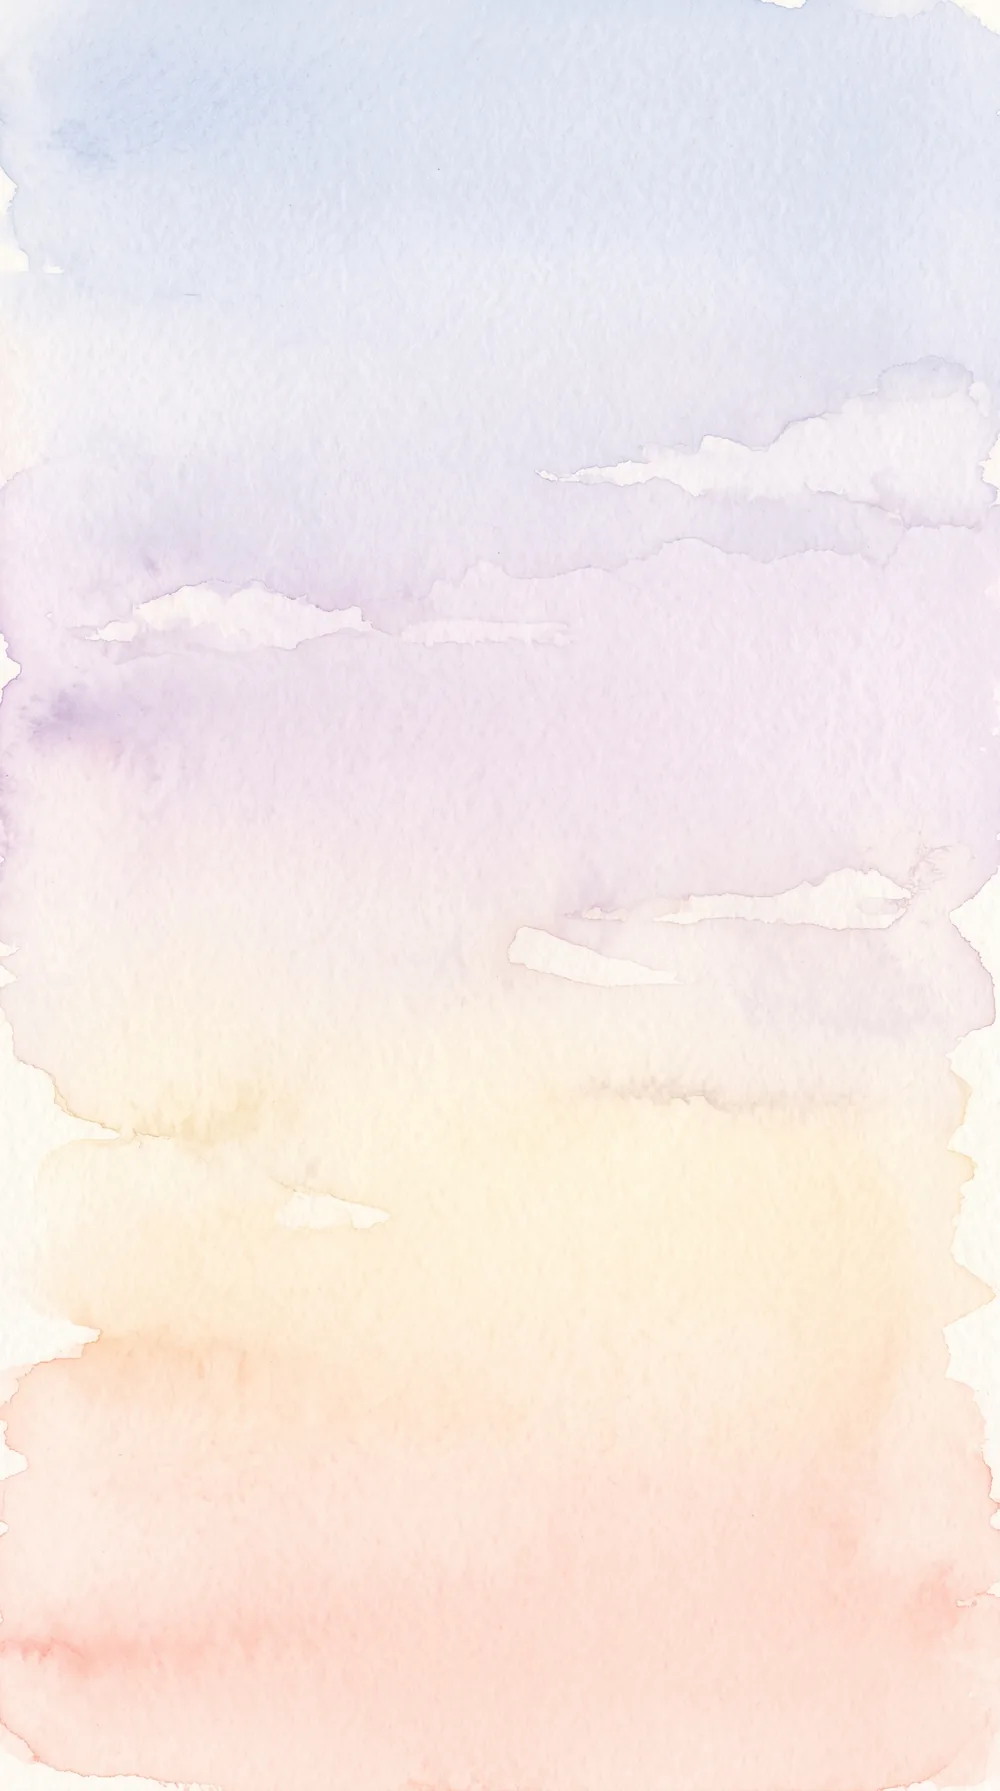
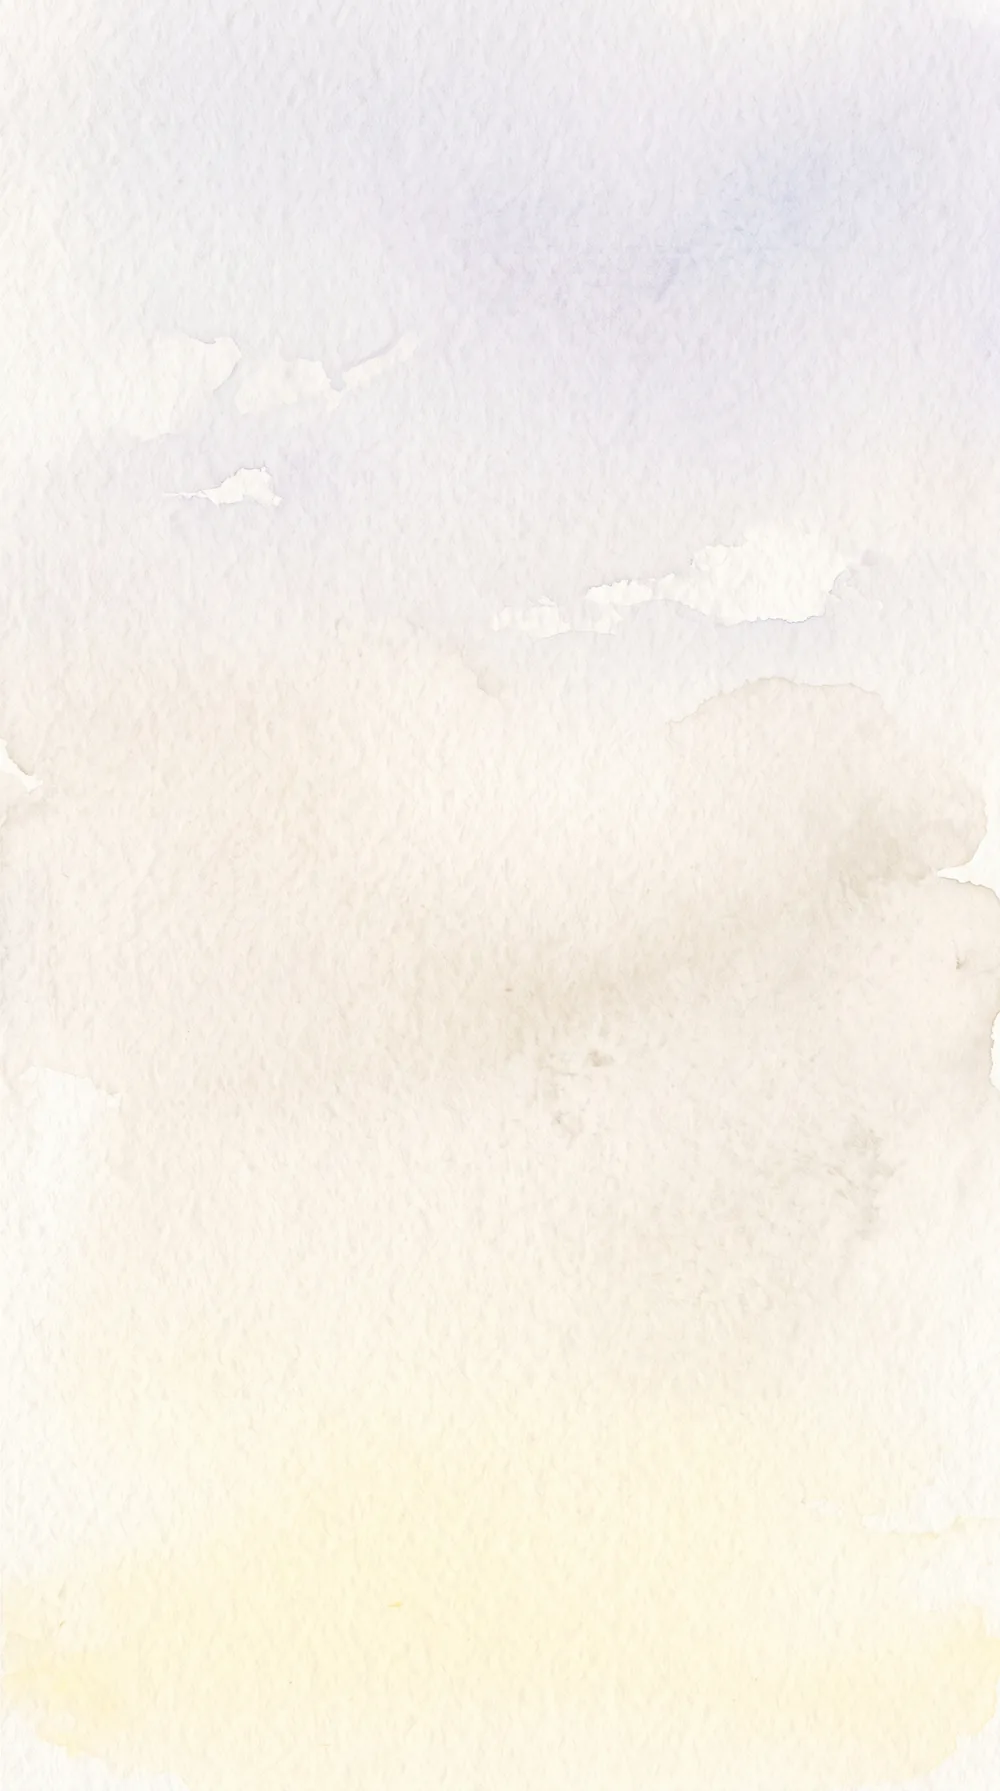
Sweet Pea: neutral linen palette with pastel yellow, lavender and blue touches

diff --git a/app/i/[slug]/_designs/WeddingSweetPea.tsx b/app/i/[slug]/_designs/WeddingSweetPea.tsx
@@ -547,24 +547,24 @@ export default function WeddingSweetPea({ invite, embedded = false, guest = null
 
 const CSS = `
 .sp-root {
-  --lilac: #cbb8e3; --lilac-d: #9f86c2; --blue: #b9cfea; --peach: #f6cfc0; --butter: #fbefd2;
-  --sage: #b8c9a9; --cream: #fffaf2; --ink: #4a3553; --ink-soft: #7a6582;
+  --lilac: #d6cde6; --lilac-d: #9a8fb3; --blue: #c9d7e6; --peach: #efe2b8; --butter: #f3e6b5;
+  --sage: #b9bfa6; --cream: #fbf8f2; --ink: #3f3a36; --ink-soft: #857c73; --line: rgba(120,108,96,.35);
   --title: 'Gilda Display', 'Times New Roman', serif; --body: 'Jost', 'Helvetica Neue', sans-serif;
-  --std-paper: #fffaf2; --std-ink: #4a3553; --std-accent: #efe6f6;
+  --std-paper: #fbf8f2; --std-ink: #3f3a36; --std-accent: #efeadf;
   --std-script: 'Gilda Display', serif; --std-sans: 'Jost', sans-serif;
   --p: 0;
   position: relative; min-height: 100vh; color: var(--ink); font-family: var(--body); font-weight: 300;
   -webkit-font-smoothing: antialiased; overflow-x: clip;
 }
 .sp-root *, .sp-root *::before, .sp-root *::after { box-sizing: border-box; }
-body:has(.sp-root) { margin: 0; background: #f7e6e1; }
+body:has(.sp-root) { margin: 0; background: #f1ece3; }
 
 /* ---------- sky ---------- */
 .sp-sky { position: fixed; inset: 0; z-index: 0; pointer-events: none; overflow: hidden; }
 .sp-sky-l { position: absolute; inset: 0; }
-.sp-sky-dawn { background: url(${ART}/sky.webp) center / cover no-repeat, linear-gradient(180deg, #e6dcf3 0%, #f6e6ea 45%, #fbe2d4 100%); }
-.sp-sky-day { background: linear-gradient(180deg, #d6d3f0 0%, #ece0f2 50%, #f8e4e4 100%); opacity: calc(min(1, max(0, (var(--p) - 0.25) * 2.2)) * 0.75); }
-.sp-sky-dusk { background: linear-gradient(180deg, #b9c6e8 0%, #d2cbea 55%, #ecd6e6 100%); opacity: calc(min(1, max(0, (var(--p) - 0.62) * 2.6)) * 0.85); }
+.sp-sky-dawn { background: url(${ART}/sky.webp) center / cover no-repeat, linear-gradient(180deg, #ebe8ee 0%, #f4f0e8 50%, #f3ead6 100%); }
+.sp-sky-day { background: linear-gradient(180deg, #e6e4ee 0%, #efebe4 50%, #f2ead8 100%); opacity: calc(min(1, max(0, (var(--p) - 0.25) * 2.2)) * 0.75); }
+.sp-sky-dusk { background: linear-gradient(180deg, #d4dce8 0%, #e0dde8 55%, #ece6dc 100%); opacity: calc(min(1, max(0, (var(--p) - 0.62) * 2.6)) * 0.85); }
 .sp-sky-clouds { position: absolute; inset: -20% 0; will-change: transform; }
 .sp-sky-clouds.far { transform: translate3d(0, calc(var(--sy, 0) * -0.04px), 0); }
 .sp-sky-clouds.near { transform: translate3d(0, calc(var(--sy, 0) * -0.12px), 0); }
@@ -591,10 +591,10 @@ body:has(.sp-root) { margin: 0; background: #f7e6e1; }
 .sp-hero-spray { position: absolute; top: 3svh; left: 50%; width: min(118vw, 600px); aspect-ratio: 16/9; translate: -50% 0; background: center / contain no-repeat; pointer-events: none; }
 .sp-names { font: 400 clamp(58px, 18vw, 86px)/.98 var(--title); margin: 4px 0 18px; display: flex; flex-direction: column; align-items: center; }
 .sp-hero-line { font: 300 15px/1.5 var(--body); letter-spacing: .06em; margin: 0 0 22px; color: var(--ink-soft); }
-.sp-hero-date { font: 400 17px/1 var(--body); letter-spacing: .38em; margin: 0; padding: 14px 0 14px .38em; border-top: 1px solid rgba(74,53,83,.25); border-bottom: 1px solid rgba(74,53,83,.25); }
+.sp-hero-date { font: 400 17px/1 var(--body); letter-spacing: .38em; margin: 0; padding: 14px 0 14px .38em; border-top: 1px solid var(--line); border-bottom: 1px solid var(--line); }
 .sp-welcome { margin-top: 30px; }
 .sp-welcome-dear { font: 400 22px/1.3 var(--title); margin: 0 0 4px; }
-.sp-scroll-hint { position: absolute; bottom: 28px; left: 50%; translate: -50% 0; width: 1px; height: 46px; background: rgba(74,53,83,.18); overflow: hidden; }
+.sp-scroll-hint { position: absolute; bottom: 28px; left: 50%; translate: -50% 0; width: 1px; height: 46px; background: rgba(63,58,54,.18); overflow: hidden; }
 .sp-scroll-hint span { position: absolute; left: 0; top: -40%; width: 1px; height: 40%; background: var(--ink); animation: sp-hint 2.2s ease-in-out infinite; }
 @keyframes sp-hint { to { top: 100%; } }
 .is-open .sp-hero > * { animation: sp-hero-in 1.2s cubic-bezier(.2,.7,.2,1) both; }
@@ -606,8 +606,8 @@ body:has(.sp-root) { margin: 0; background: #f7e6e1; }
 .sp-sec { position: relative; padding: 46px 0; }
 .sp-panel {
   position: relative; padding: 46px 26px 40px; border-radius: 180px 180px 26px 26px;
-  background: rgba(255, 250, 242, .8); box-shadow: 0 24px 60px -30px rgba(90, 60, 120, .35);
-  outline: 1px solid rgba(159, 134, 194, .45); outline-offset: -10px;
+  background: rgba(251, 248, 242, .84); box-shadow: 0 24px 60px -30px rgba(80, 70, 60, .3);
+  outline: 1px solid var(--line); outline-offset: -10px;
 }
 .sp-vine { position: absolute; top: -26px; width: 110px; aspect-ratio: 9/16; background: center top / contain no-repeat; pointer-events: none; }
 .sp-vine-l { left: -16px; }
@@ -634,7 +634,7 @@ body:has(.sp-root) { margin: 0; background: #f7e6e1; }
 .sp-count-row { display: grid; grid-template-columns: repeat(4, 1fr); gap: 10px; margin-top: 6px; }
 .sp-count-cell { display: flex; flex-direction: column; align-items: center; gap: 10px; }
 .sp-count-num { width: 100%; aspect-ratio: 3/4; max-width: 84px; display: grid; place-items: center; border-radius: 40px 40px 12px 12px;
-  background: rgba(255,250,242,.82); outline: 1px solid rgba(159,134,194,.45); outline-offset: -6px; perspective: 300px; overflow: hidden;
+  background: rgba(251,248,242,.85); outline: 1px solid var(--line); outline-offset: -6px; perspective: 300px; overflow: hidden;
   font: 400 30px/1 var(--title); font-variant-numeric: lining-nums tabular-nums; }
 .sp-flip { display: block; animation: sp-flip .6s cubic-bezier(.2,.7,.3,1); transform-origin: 50% 0; }
 @keyframes sp-flip { from { transform: rotateX(-80deg); opacity: 0; filter: blur(2px); } }
@@ -655,16 +655,16 @@ body:has(.sp-root) { margin: 0; background: #f7e6e1; }
 .sp-rsvp-panel { padding-bottom: 46px; overflow: visible; }
 .sp-form { display: flex; flex-direction: column; align-items: center; gap: 18px; }
 .sp-choice { display: grid; grid-template-columns: 1fr 1fr; gap: 10px; width: 100%; }
-.sp-pill { font: 400 14px/1.3 var(--body); color: var(--ink); background: transparent; border: 1px solid rgba(74,53,83,.4); border-radius: 999px; padding: 15px 10px; cursor: pointer; transition: background .3s, color .3s, border-color .3s; }
-.sp-pill.on { background: var(--lilac); border-color: var(--lilac); color: var(--ink); font-weight: 500; }
+.sp-pill { font: 400 14px/1.3 var(--body); color: var(--ink); background: transparent; border: 1px solid rgba(63,58,54,.4); border-radius: 999px; padding: 15px 10px; cursor: pointer; transition: background .3s, color .3s, border-color .3s; }
+.sp-pill.on { background: var(--butter); border-color: #d9c88f; color: var(--ink); font-weight: 500; }
 .sp-guests { display: flex; flex-direction: column; align-items: center; gap: 10px; }
 .sp-stepper { display: flex; align-items: center; gap: 22px; }
-.sp-stepper button { width: 46px; height: 46px; border-radius: 50%; border: 1px solid rgba(74,53,83,.4); background: transparent; color: var(--ink); font: 300 22px/1 var(--body); cursor: pointer; }
+.sp-stepper button { width: 46px; height: 46px; border-radius: 50%; border: 1px solid rgba(63,58,54,.4); background: transparent; color: var(--ink); font: 300 22px/1 var(--body); cursor: pointer; }
 .sp-stepper button:disabled { opacity: .3; }
 .sp-stepper output { font: 400 32px/1 var(--title); min-width: 30px; }
 .sp-note { display: flex; flex-direction: column; gap: 8px; width: 100%; }
-.sp-note textarea { font: 300 15px/1.5 var(--body); color: var(--ink); background: rgba(255,255,255,.6); border: 1px solid rgba(74,53,83,.25); border-radius: 18px; padding: 12px 14px; resize: none; }
-.sp-error { color: #a4465c; font-size: 14px; margin: 0; }
+.sp-note textarea { font: 300 15px/1.5 var(--body); color: var(--ink); background: rgba(255,255,255,.6); border: 1px solid rgba(63,58,54,.25); border-radius: 18px; padding: 12px 14px; resize: none; }
+.sp-error { color: #9a5b4b; font-size: 14px; margin: 0; }
 .sp-form-actions { display: flex; flex-direction: column; align-items: center; gap: 4px; }
 .sp-done { display: flex; flex-direction: column; align-items: center; }
 .sp-done-big { font: 400 34px/1.15 var(--title); margin: 4px 0 8px; }
@@ -673,7 +673,7 @@ body:has(.sp-root) { margin: 0; background: #f7e6e1; }
 @keyframes sp-stamp { from { transform: scale(2.2) rotate(-18deg); opacity: 0; } 60% { opacity: 1; } }
 .sp-burst { position: absolute; left: 50%; top: 52%; width: 0; height: 0; pointer-events: none; z-index: 3; }
 .sp-petal { position: absolute; left: 0; top: 0; border-radius: 0 85% 0 85%; box-shadow: inset -2px -2px 4px rgba(255,255,255,.55); animation: sp-petal 1.9s cubic-bezier(.15,.7,.3,1) both; opacity: 0; }
-.sp-petal.h0 { background: #d8c6ee; } .sp-petal.h1 { background: #f6c8b8; } .sp-petal.h2 { background: #c4d6f0; } .sp-petal.h3 { background: #fbe6b4; } .sp-petal.h4 { background: #f0bfd2; }
+.sp-petal.h0 { background: #d6cde6; } .sp-petal.h1 { background: #f1e2a8; } .sp-petal.h2 { background: #c6d5e6; } .sp-petal.h3 { background: #ebe4d6; } .sp-petal.h4 { background: #c9bfdd; }
 @keyframes sp-petal {
   0% { opacity: 0; transform: translate(0, 0) rotate(0) scale(.4); }
   12% { opacity: 1; }
@@ -695,11 +695,11 @@ body:has(.sp-root) { margin: 0; background: #f7e6e1; }
 .sp-wing { position: absolute; top: 0; width: 50%; height: 100%; background: url(${ART}/butterfly.webp) no-repeat; background-size: 200% 100%; }
 .sp-wing-l { left: 0; background-position: 0 0; transform-origin: 100% 50%; transform: perspective(120px) rotateY(calc((1 - var(--open)) * 70deg)); }
 .sp-wing-r { right: 0; background-position: 100% 0; transform-origin: 0 50%; transform: perspective(120px) rotateY(calc((1 - var(--open)) * -70deg)); }
-.sp-follower { position: fixed; left: 0; top: 0; z-index: 5; pointer-events: none; will-change: transform; filter: drop-shadow(0 6px 6px rgba(74,53,83,.18)); }
+.sp-follower { position: fixed; left: 0; top: 0; z-index: 5; pointer-events: none; will-change: transform; filter: drop-shadow(0 6px 6px rgba(60,50,40,.18)); }
 
 /* ---------- gate: the folded card ---------- */
 .sp-gate { position: fixed; inset: 0; z-index: 20; display: flex; flex-direction: column; align-items: center; justify-content: center; gap: 26px; transition: opacity 1s ease; }
-.sp-gate-sky { position: absolute; inset: 0; background: url(${ART}/sky.webp) center / cover no-repeat, linear-gradient(180deg, #e6dcf3 0%, #f6e6ea 45%, #fbe2d4 100%); }
+.sp-gate-sky { position: absolute; inset: 0; background: url(${ART}/sky.webp) center / cover no-repeat, linear-gradient(180deg, #ebe8ee 0%, #f4f0e8 50%, #f3ead6 100%); }
 .sp-gate-clouds { position: absolute; inset: 0; }
 .sp-card {
   --w: min(74vw, 330px); position: relative; width: var(--w); aspect-ratio: 3 / 4.25; border: 0; padding: 0; background: none; cursor: pointer;
@@ -710,8 +710,8 @@ body:has(.sp-root) { margin: 0; background: #f7e6e1; }
 @keyframes sp-float { 0%,100% { translate: 0 0; rotate: -1deg; } 50% { translate: 0 -8px; rotate: .6deg; } }
 .st-open .sp-card, .st-grow .sp-card { animation: none; }
 .st-open .sp-card { transform: scale(.58); transition: transform 1.6s cubic-bezier(.55,.05,.25,1); }
-.sp-inside { position: absolute; inset: 0; border-radius: 6px; background: var(--cream) url(${ART}/grain.png); box-shadow: 0 30px 60px -28px rgba(70,45,90,.45), inset 0 0 0 1px rgba(159,134,194,.3); overflow: hidden; display: flex; align-items: center; justify-content: center; }
-.sp-inside::after { content: ""; position: absolute; inset: 10px; border: 1px solid rgba(159,134,194,.45); border-radius: 3px; pointer-events: none; }
+.sp-inside { position: absolute; inset: 0; border-radius: 6px; background: var(--cream) url(${ART}/grain.png); box-shadow: 0 30px 60px -28px rgba(70,60,50,.4), inset 0 0 0 1px var(--line); overflow: hidden; display: flex; align-items: center; justify-content: center; }
+.sp-inside::after { content: ""; position: absolute; inset: 10px; border: 1px solid var(--line); border-radius: 3px; pointer-events: none; }
 .sp-inside-text { position: relative; z-index: 2; display: flex; flex-direction: column; align-items: center; padding-top: 34%; }
 .sp-inside-text .sp-eyebrow { font-size: 9px; margin-bottom: 10px; }
 .sp-inside-names { font: 400 calc(var(--w) * .15)/1 var(--title); color: var(--ink); display: flex; flex-direction: column; align-items: center; }
@@ -725,18 +725,18 @@ body:has(.sp-root) { margin: 0; background: #f7e6e1; }
 .sp-flap { position: absolute; top: 0; bottom: 0; width: 50%; transform-style: preserve-3d; transition: transform 1.6s cubic-bezier(.55,.05,.25,1); z-index: 3; }
 .sp-flap-l { left: 0; transform-origin: 0 50%; }
 .sp-flap-r { right: 0; transform-origin: 100% 50%; }
-.sp-flap-face { position: absolute; inset: 0; backface-visibility: hidden; -webkit-backface-visibility: hidden; background: #fbf3ec url(${ART}/grain.png); overflow: hidden; }
+.sp-flap-face { position: absolute; inset: 0; backface-visibility: hidden; -webkit-backface-visibility: hidden; background: #f8f4ec url(${ART}/grain.png); overflow: hidden; }
 .sp-flap-l .sp-flap-face { border-radius: 6px 0 0 6px; }
 .sp-flap-r .sp-flap-face { border-radius: 0 6px 6px 0; }
-.sp-flap-front { box-shadow: inset 0 0 0 1px rgba(159,134,194,.35); }
-.sp-flap-front::before { content: ""; position: absolute; inset: 10px; border: 1px solid rgba(159,134,194,.45); }
+.sp-flap-front { box-shadow: inset 0 0 0 1px var(--line); }
+.sp-flap-front::before { content: ""; position: absolute; inset: 10px; border: 1px solid var(--line); }
 .sp-flap-l .sp-flap-front::before { border-right: 0; } .sp-flap-r .sp-flap-front::before { border-left: 0; }
-.sp-flap-front::after { content: ""; position: absolute; inset: 0; background: linear-gradient(90deg, rgba(255,255,255,0) 60%, rgba(120,90,150,.10)); opacity: 1; transition: opacity 1.6s; }
-.sp-flap-r .sp-flap-front::after { background: linear-gradient(270deg, rgba(255,255,255,0) 60%, rgba(120,90,150,.10)); }
-.sp-flap-back { transform: rotateY(180deg); background-color: #f6eef7; }
+.sp-flap-front::after { content: ""; position: absolute; inset: 0; background: linear-gradient(90deg, rgba(255,255,255,0) 60%, rgba(110,95,80,.10)); opacity: 1; transition: opacity 1.6s; }
+.sp-flap-r .sp-flap-front::after { background: linear-gradient(270deg, rgba(255,255,255,0) 60%, rgba(110,95,80,.10)); }
+.sp-flap-back { transform: rotateY(180deg); background-color: #f2eee6; }
 .sp-flap-back::before { content: ""; position: absolute; inset: 8% 6%; background: var(--vine) center / contain no-repeat; opacity: .95; }
 .sp-flap-r .sp-flap-back::before { transform: scaleX(-1); }
-.sp-flap-back::after { content: ""; position: absolute; inset: 0; background: linear-gradient(90deg, rgba(120,90,150,.18), rgba(255,255,255,0) 70%); }
+.sp-flap-back::after { content: ""; position: absolute; inset: 0; background: linear-gradient(90deg, rgba(110,95,80,.16), rgba(255,255,255,0) 70%); }
 .sp-flap-letter { position: absolute; top: 27%; font: 400 calc(var(--w) * .2)/1 var(--title); color: var(--ink); translate: 0 -50%; opacity: .88; }
 .sp-flap-l .sp-flap-letter { right: 16%; } .sp-flap-r .sp-flap-letter { left: 16%; }
 .st-open .sp-flap-l, .st-grow .sp-flap-l { transform: rotateY(-164deg); }
@@ -746,7 +746,7 @@ body:has(.sp-root) { margin: 0; background: #f7e6e1; }
 .st-seal .sp-seal { animation: sp-seal-pop .6s cubic-bezier(.3,.9,.4,1) forwards; }
 .st-open .sp-seal, .st-grow .sp-seal { opacity: 0; transform: translateY(-160px) rotate(-40deg) scale(.6); }
 @keyframes sp-seal-pop { 0% { transform: scale(1); } 35% { transform: scale(1.18) rotate(6deg); } 100% { transform: translateY(-160px) rotate(-40deg) scale(.6); opacity: 0; } }
-.sp-out { position: absolute; left: 50%; top: 40%; z-index: 7; opacity: 0; width: 96px; height: 72px; filter: drop-shadow(0 8px 8px rgba(74,53,83,.2)); }
+.sp-out { position: absolute; left: 50%; top: 40%; z-index: 7; opacity: 0; width: 96px; height: 72px; filter: drop-shadow(0 8px 8px rgba(63,58,54,.2)); }
 .st-open .sp-out-1, .st-grow .sp-out-1 { animation: sp-out1 2.6s cubic-bezier(.35,.1,.3,1) .9s both, sp-flap .16s ease-in-out infinite alternate; }
 .st-open .sp-out-2, .st-grow .sp-out-2 { animation: sp-out2 2.8s cubic-bezier(.35,.1,.3,1) 1.15s both, sp-flap .18s ease-in-out infinite alternate; }
 @keyframes sp-flap { from { --open: 1; } to { --open: .2; } }
